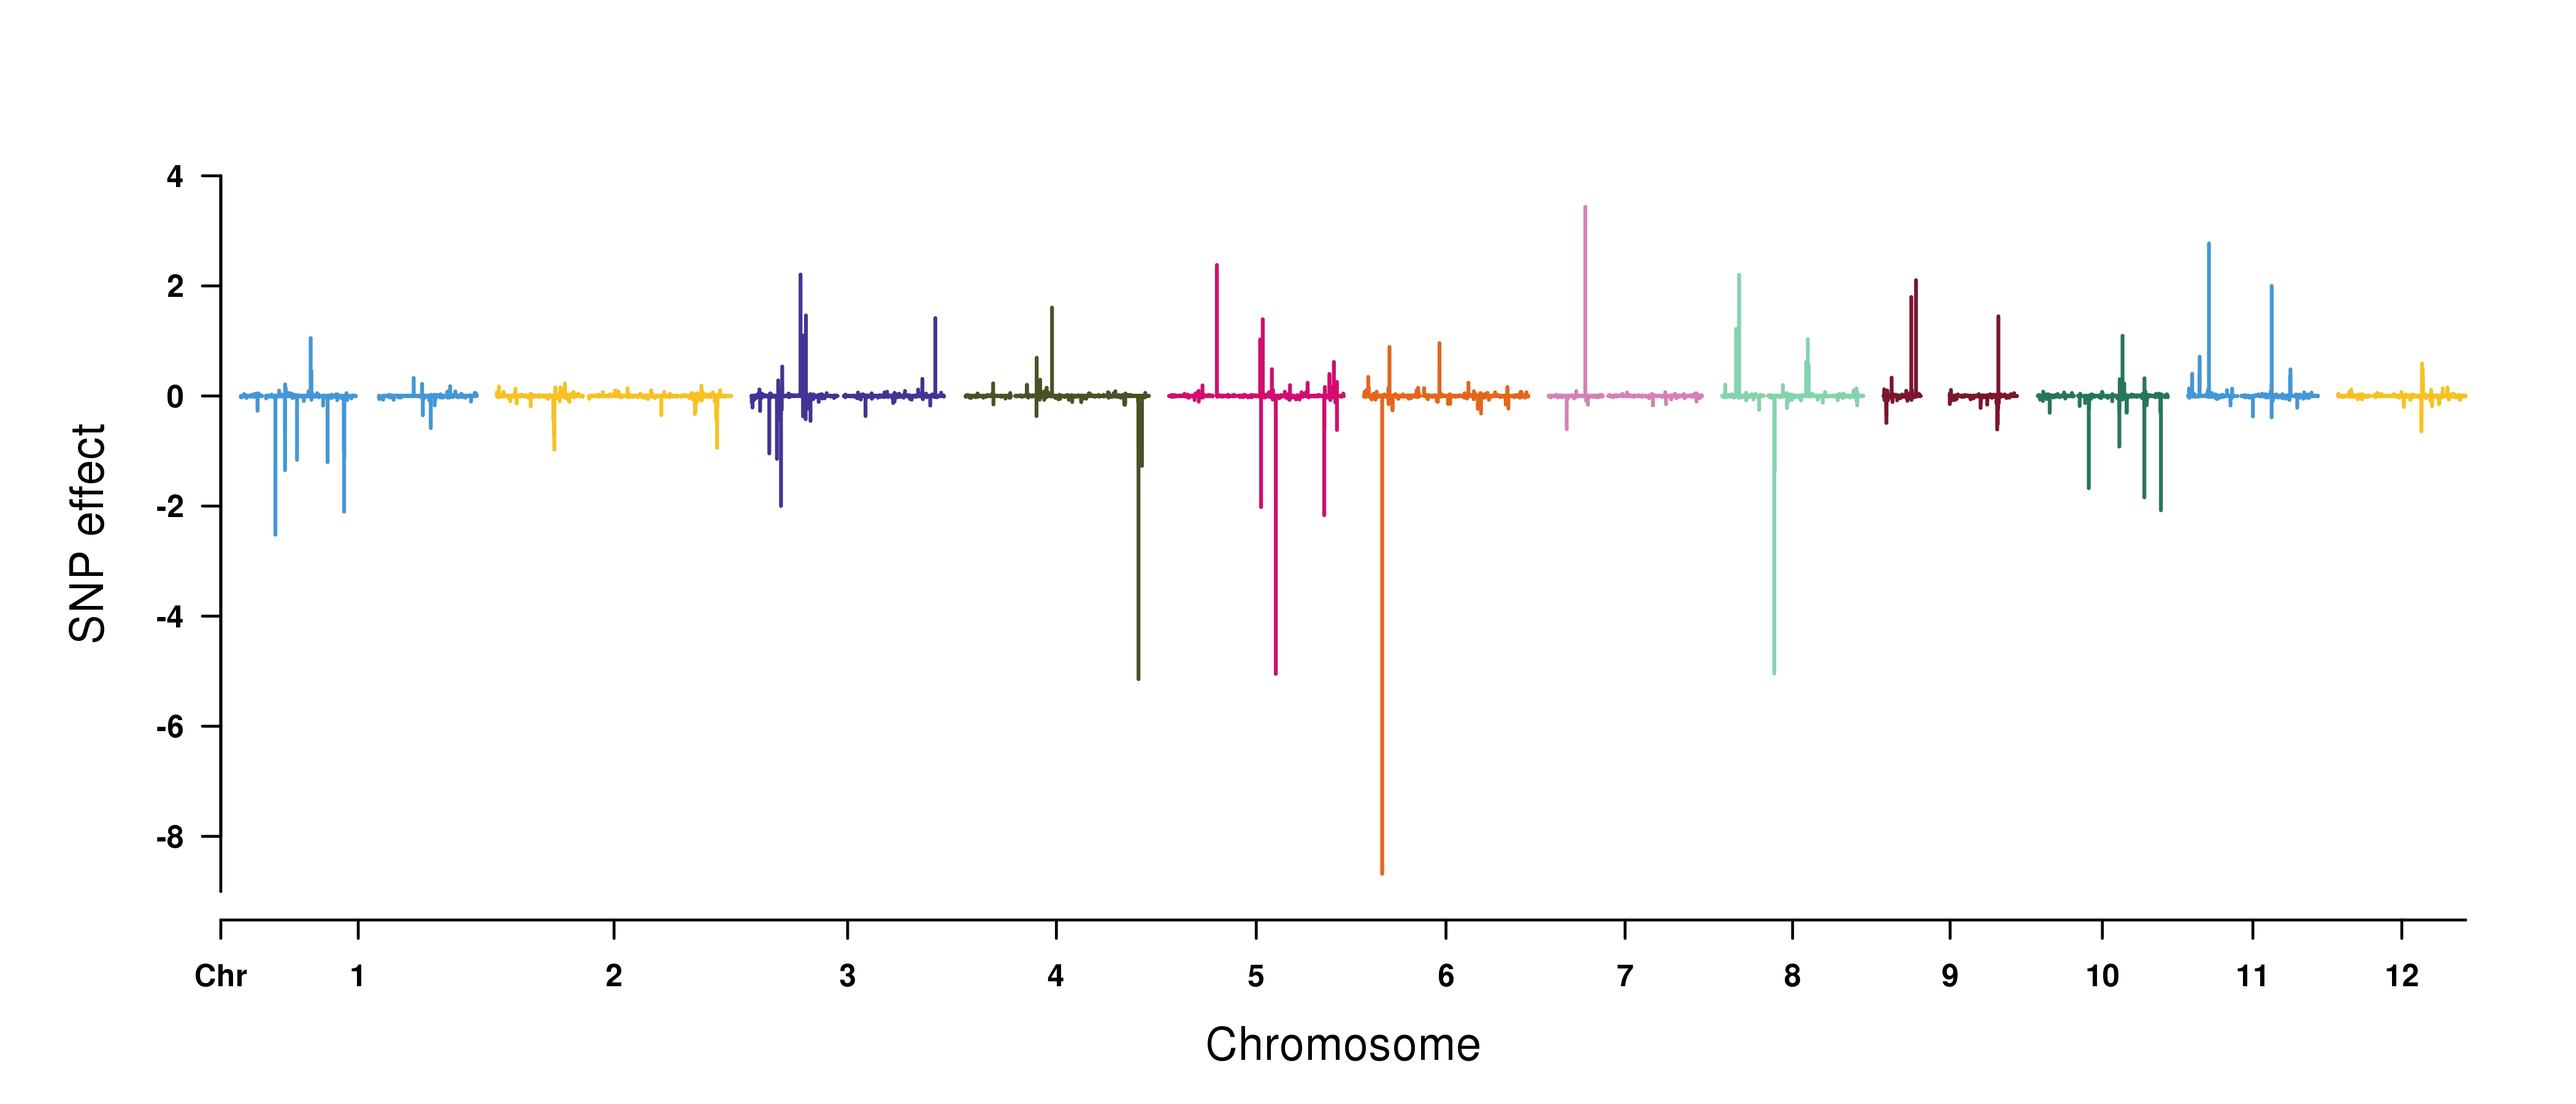
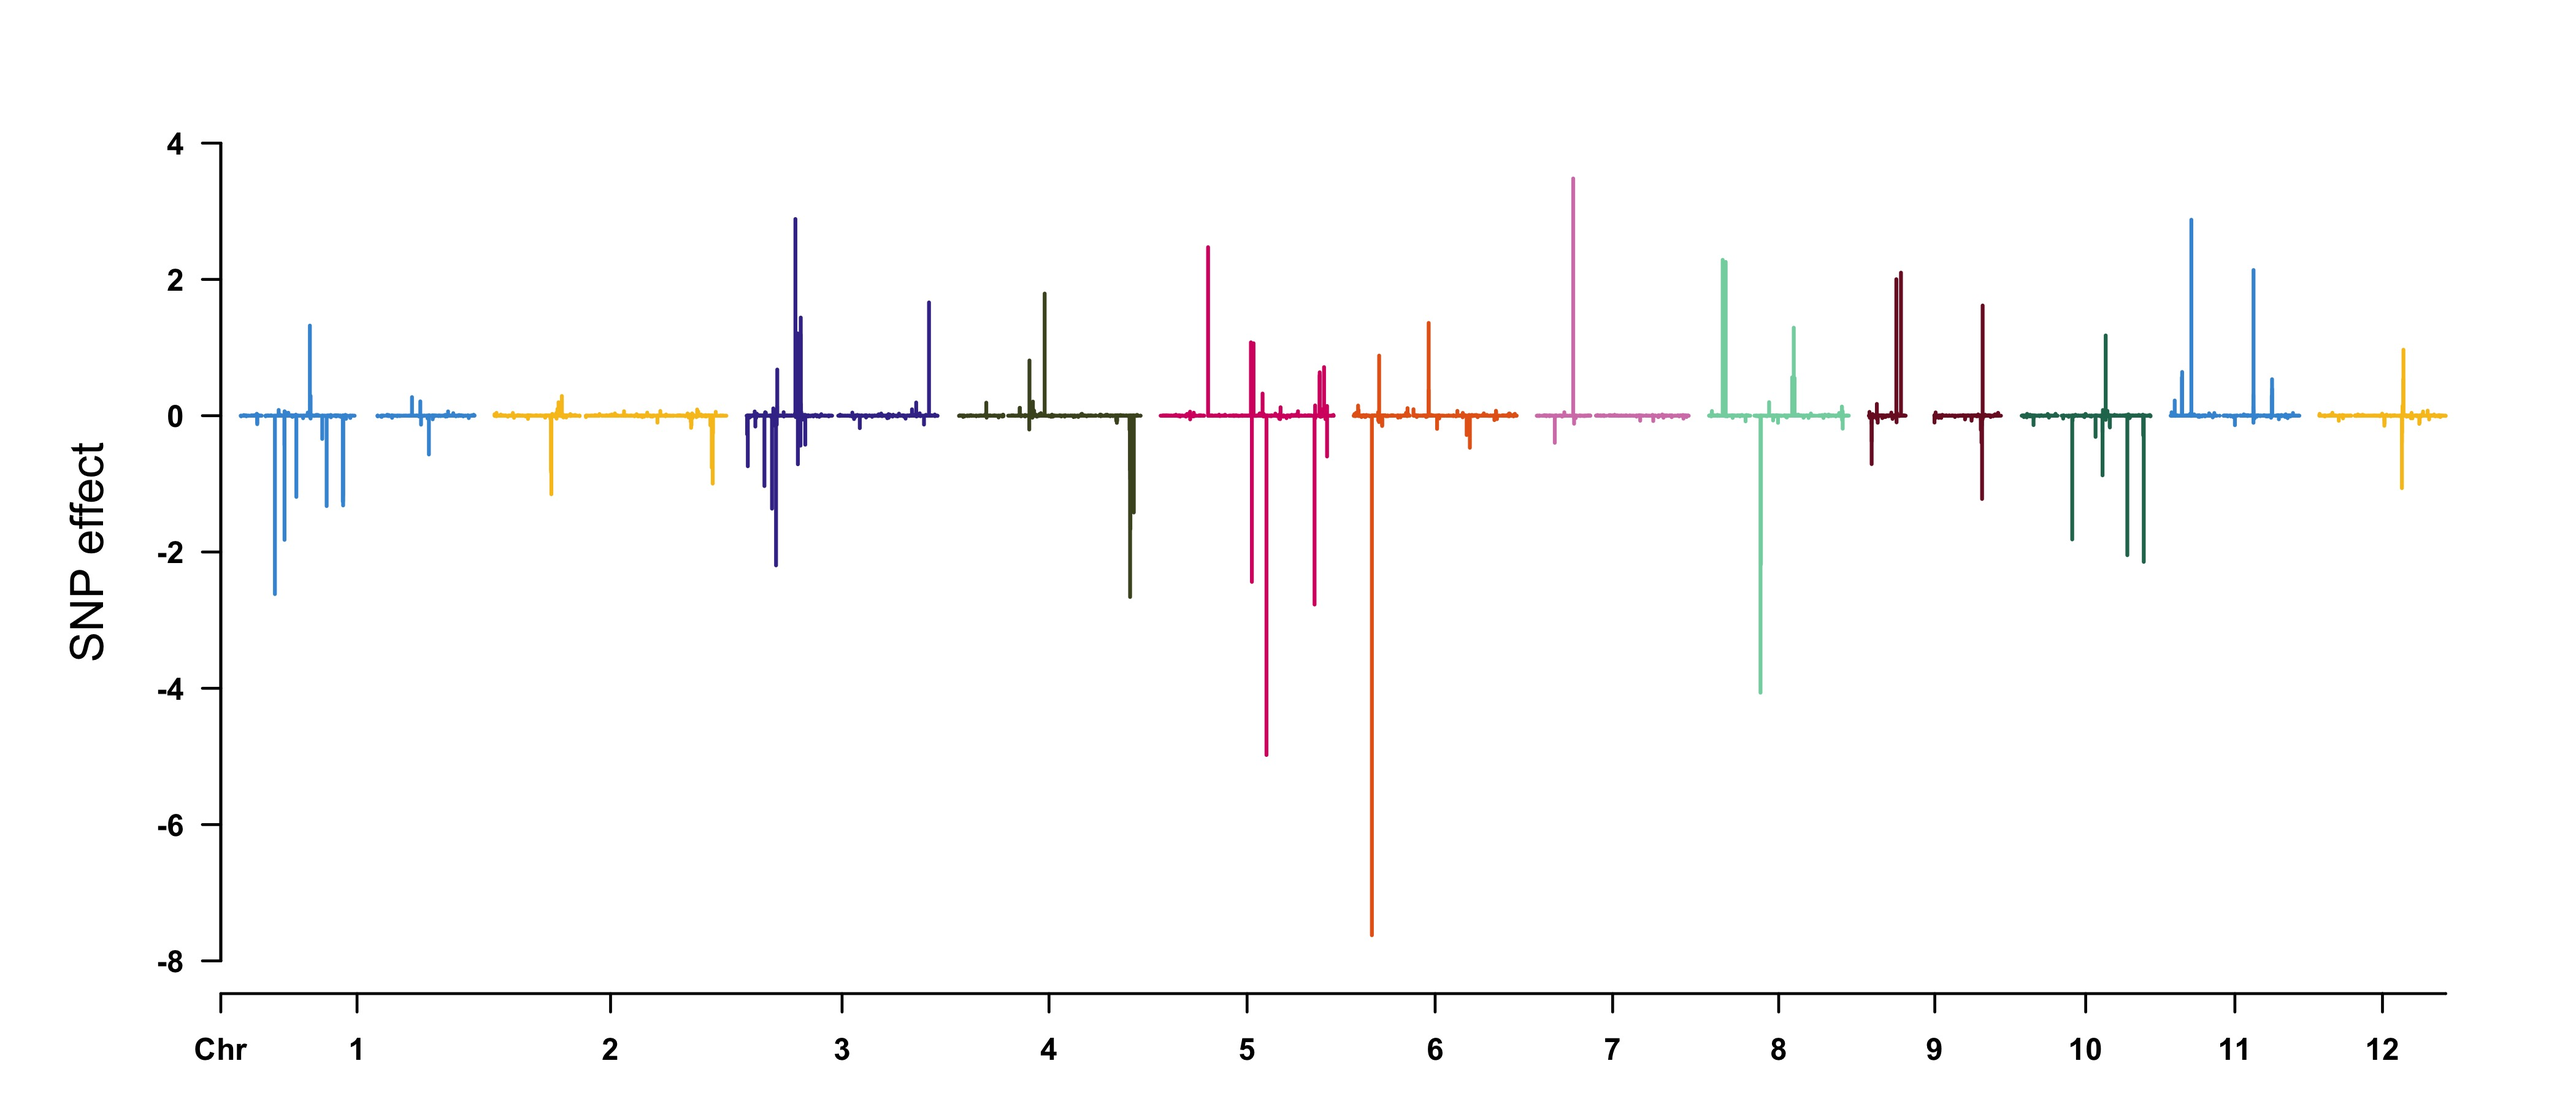
replace figure

diff --git a/README.md b/README.md
@@ -120,7 +120,7 @@ View the results by [CMplot](https://github.com/YinLiLin/R-CMplot) package:
 
 ```r
 > highlight <- map[pve>0.001,1]
-> CMplot(cbind(map[,1:3], pve), type="h", plot.type="m", LOG10=FALSE, ylab="Phenotypic variance explained (%)",
+> CMplot(cbind(map[,1:3], 100 * pve), type="h", plot.type="m", LOG10=FALSE, ylab="Phenotypic variance explained (%)",
         highlight=highlight, highlight.col=NULL)
 ```
 <p align="center">
